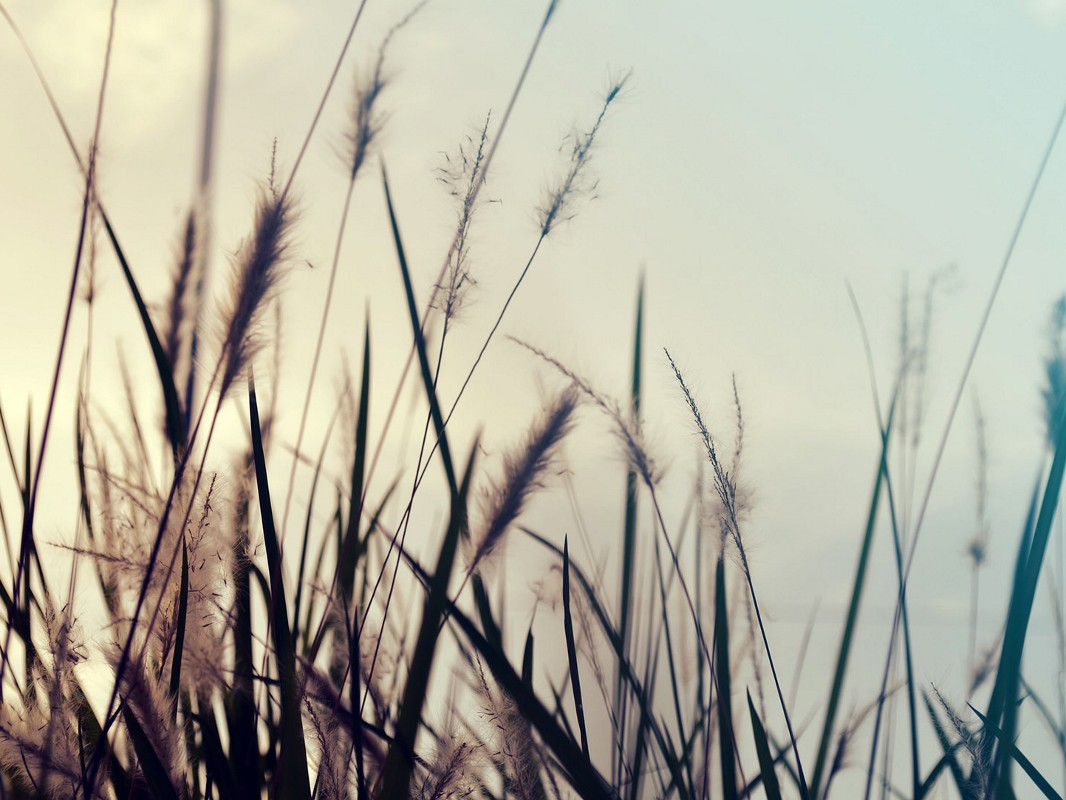
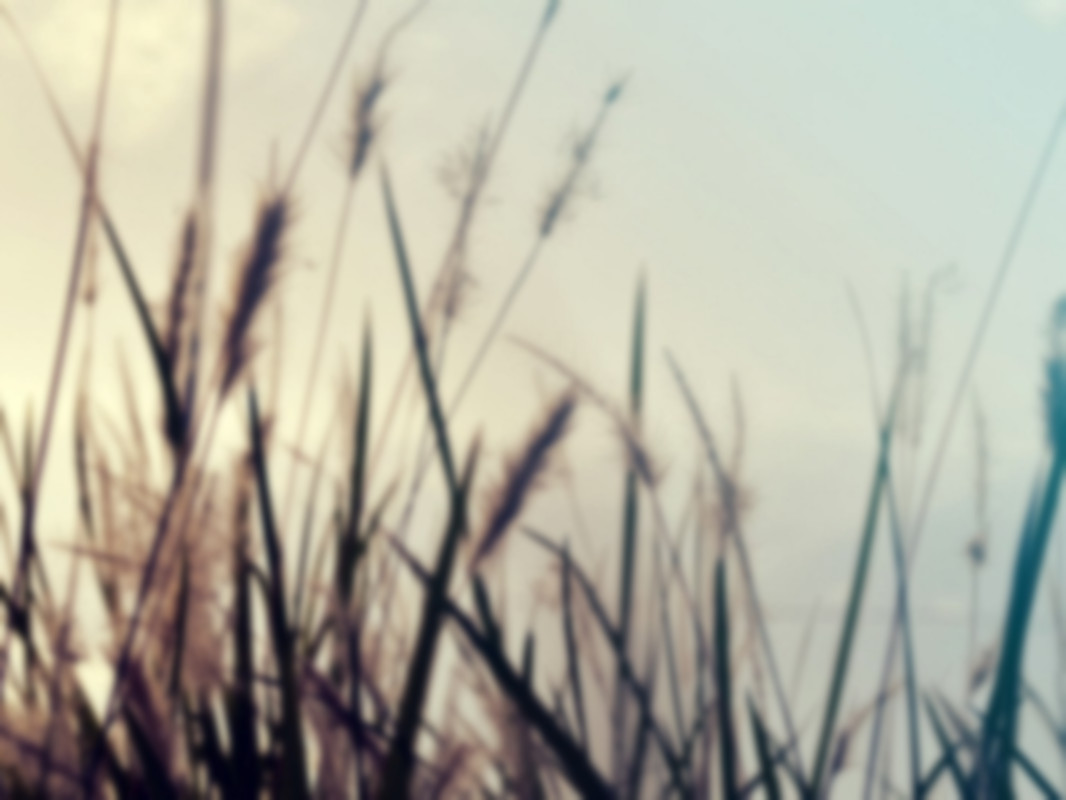
blur

diff --git a/works/photographs/index.html b/works/photographs/index.html
@@ -1,0 +1,95 @@
+<!DOCTYPE html>
+<html>
+
+<head>
+	<meta charset="utf-8">
+	<meta name="author" content="Angelo Rosamiran">
+	<meta name="viewport" content="width=device-width, initial-scale=1.0">
+	<link rel="icon" type="image/svg" href="img/doodlr.ico">
+	<link rel="stylesheet" type="text/css" href="../works.css">
+	<!-- <link rel="stylesheet" type="text/css" href="../css/photos.css"> -->
+	<script src="../../analytics.js"></script>
+	<script src="../back.js"></script>
+	<title>Works: Photographs</title>
+</head>
+
+<body>
+	<article>
+		<div>
+			<span class="title">Photographs</span>
+		</div>
+		<div>
+			<blockquote>"A picture is worth a thousand words."</blockquote>
+			<hr>
+			<p class="text">
+				<!--But unfortunately on April of the following year it got snatched from me. I'm still happy though because I was able to take amazing photos - even with my little time with it.-->In the year 2014, I owned a
+				<a href="http://www.gsmarena.com/nokia_lumia_925-5451.php" target="_blank" class="link">Lumia 925</a>. Sporting an 8MP camera, the photography enthusiast in me was so happy. It really is true to its tagline
+				<quote>More than your eyes can see</quote>.
+			</p>
+
+			<p class="text">For a complete compilation, please visit my
+				<a href="https://www.behance.net/arosamiran1578" class="link" target="_blank">Behance profile</a>
+
+				<div id="photosPane">
+					<a href="img/img1-wide.jpg">
+						<img src="img/img1-wide.jpg" alt="Lines">
+					</a>
+					<a href="img/img2-wide.jpg">
+						<img src="img/img2-wide.jpg" alt="Sunset" class="thumbnail">
+					</a>
+					<a href="img/img3-wide.jpg">
+						<img src="img/img3-wide.jpg" alt="Merida" class="thumbnail">
+					</a>
+					<a href="img/img4-wide.jpg">
+						<img src="img/img4-wide.jpg" alt="Christmas Lights" class="thumbnail">
+					</a>
+					<a href="img/img5-wide.jpg">
+						<img src="img/img5-wide.jpg" alt="The Philippine Flag" class="thumbnail">
+					</a>
+					<a href="img/img6-wide.jpg">
+						<img src="img/img6-wide.jpg" alt="Fountains" class="thumbnail">
+					</a>
+					<a href="img/img7-wide.jpg">
+						<img src="img/img7-wide.jpg" alt="Fireworks" class="thumbnail">
+					</a>
+					<a href="img/img8-wide.jpg">
+						<img src="img/img8-wide.jpg" alt="Silhouette" class="thumbnail">
+					</a>
+					</li>
+					</ul>
+				</div>
+
+				<p class="text" style="text-align: right;">
+					You can contact me for the full resolution versions.
+				</p>
+
+				<div>
+					<table>
+						<tr>
+							<td id="back" onclick="back()" class="back-btn">&lt;</td>
+						</tr>
+					</table>
+				</div>
+		</div>
+		<!-- The Modal -->
+		<!--<div id="myModal" class="modal" onclick="modalBtn()">
+
+		<span class="close" onclick="document.getElementById('myModal').style.display='none'">&times;</span>
+
+		<img class="modal-content" id="modalImg">
+
+
+		<span class="left btn" id="btn">&lt;</span>
+		<div class="modalNav">
+				<div class="caption"></div>
+				<div class="caption">
+					<span id="count"></span>
+					/8
+				</div>
+		</div>
+		<span class="right btn" id="btn">&gt;</span>		
+	</div>-->
+	</article>
+</body>
+
+</html>

diff --git a/js/script.js b/js/script.js
@@ -1,32 +1,14 @@
-window.onload = initPage;
+window.onload = init;
 var position = [],
 	counter = 0;
 
-function initPage() {
-	let intro = document.getElementById("intro");
-	let bg = document.querySelector(".bg");
-	bg.style.height = intro.clientHeight + 'px';
-	intro.style.background = "rgba(247,194,130,0.5) url(img/coffee-beans-d.png) repeat-x left bottom";
-	intro.style.filter = "blur(3px)";
-	console.log(intro);
-}
 
 function init() {
 
-	menuHandler = document.getElementById('menu');
-	menuHandler.style.position = "fixed";
-	menuHandler.style.top = "5px";
-	menuHandler.style.marginLeft = "5px";
-	// console.log(menuHandler);
-
-	// menuHandler.className += " menu-right";
-	// menuHandler.className += "menu-right";
 	iHolder = document.getElementById('intro');
 	wHolder = document.getElementById('works');
 	cHolder = document.getElementById('contact');
 	lHolder = document.getElementById('links');
-	// console.log(wHolder);
-
 
 	var introHeight = iHolder.clientHeight;
 	var worksHeight = wHolder.clientHeight;
@@ -40,7 +22,7 @@ function init() {
 	var screenHeight = screen.height;
 
 	// device's width
-	var screenWidth = screen.width;
+	// var screenWidth = screen.width;
 
 	var dividerHandler = [document.getElementById('iw'), document.getElementById('wa'), document.getElementById('cl')];
 
@@ -48,33 +30,14 @@ function init() {
 	if (screenHeight <= 700) {
 		// screenHeight = screenWidth;
 		mobile(wrapper, screenHeight, screenWidth, introHeight, worksHeight, linksHeight);
-	} else {
-		desktop(wrapper, screenHeight, screenWidth);
-		// menuHandler.style.display = "none";
-
-		for (var i = 0; i < dividerHandler.length; i++) {
-			dividerHandler[i].style.display = "none";
-		}
 	}
 }
 
-function desktop(w, sh, sw) {
-	for (var i = 0; i < w.length; i++) {
-		w[i].style.height = sh + "px";
-		w[i].style.width = sw + "px";
-	}
-}
 
 function mobile(w, sh, sw, ih, wh, lh) {
-	// console.log(sh.valueOf())
-	// var introHandler = document.getElementById("intro");
-	// introHandler.style.backgroundImage = "url(../images/coffee-beans.png)";
-	// console.log(introHandler);
-
-	// console.log(sh, sw);
-
 	for (var i = 0; i <= w.length - 1; i++) {
 		if (sh <= 750) {
+			console.log(ih);
 			switch (i) {
 				case 0:
 					position.push(0 + "px");

diff --git a/css/style.css b/css/style.css
@@ -248,12 +248,7 @@ p {
 	p {
 		font-size: 1.35em;
 	}
-	#works .holder {
-		/*border: 1px dotted #aaa;*/
-		column-count: 2;
-		column-gap: 5px;
-		column-fill: balance;
-	}
+
 	#works .title {
 		font-size: 1.6em;
 	}
@@ -302,9 +297,6 @@ p {
 		background-position: left bottom;
 		background-repeat: repeat-x;
 	}
-	#intro .flex {
-		border: 1px dotted blue;
-	}
 	#works {
 		background-image: url('../img/background.jpg');
 	}
@@ -312,12 +304,11 @@ p {
 	.works .title {
 		color: #50394c;
 	}
-	#wc {
-		display: none;
-	}
 	#links {
 		background-image: url('../img/fireworks.jpg');
 	}
+
+
 	#contact {
 		background-image: url('../img/portrait.jpg');
 	}

diff --git a/index.html b/index.html
@@ -79,7 +79,7 @@
 						</div>
 					</a>
 
-					<a href="works/photographs.html">
+					<a href="works/photographs/index.html">
 						<div class="work-1 transbox">
 							<h2 class="title">Photographs</h2>
 							<p>Photography is one of my hobbies. Here are some of my best shots.</p>
@@ -155,8 +155,7 @@
 		</section>
 		<script src="js/analytics.js"></script>
 	</main>
-	<!-- <script src="js/script.js"></script> -->
-	<script src="https://ajax.googleapis.com/ajax/libs/jquery/3.2.1/jquery.min.js"></script>
+	<script src="js/script.js"></script>
 </body>
 
 </html>

diff --git a/works/works.css b/works/works.css
@@ -40,7 +40,7 @@ blockquote{
 	font-size: 1.3em;
 	text-align: center;
 	font-weight: lighter;
-	color: #fff;
+	color: rgb(68, 51, 29);
 }
 
 .date{
@@ -93,18 +93,13 @@ img{
 .link{
 	text-decoration: none;
 	opacity: 0.8;
-	transform: opacity, 0.2s;
-	color:  #deeaee;
-	border-bottom: 1px  #deeaee dotted;
+	color: rgb(68, 51, 29);
 }
 
 .link:hover{
+	border-bottom: 1px  rgb(68, 51, 29) dotted;
 	opacity: 1;	
 }
-
-/*.link:hover{
-	opacity: 0.8;
-}*/
 
 .thumbnail{
 	width: 100%;
